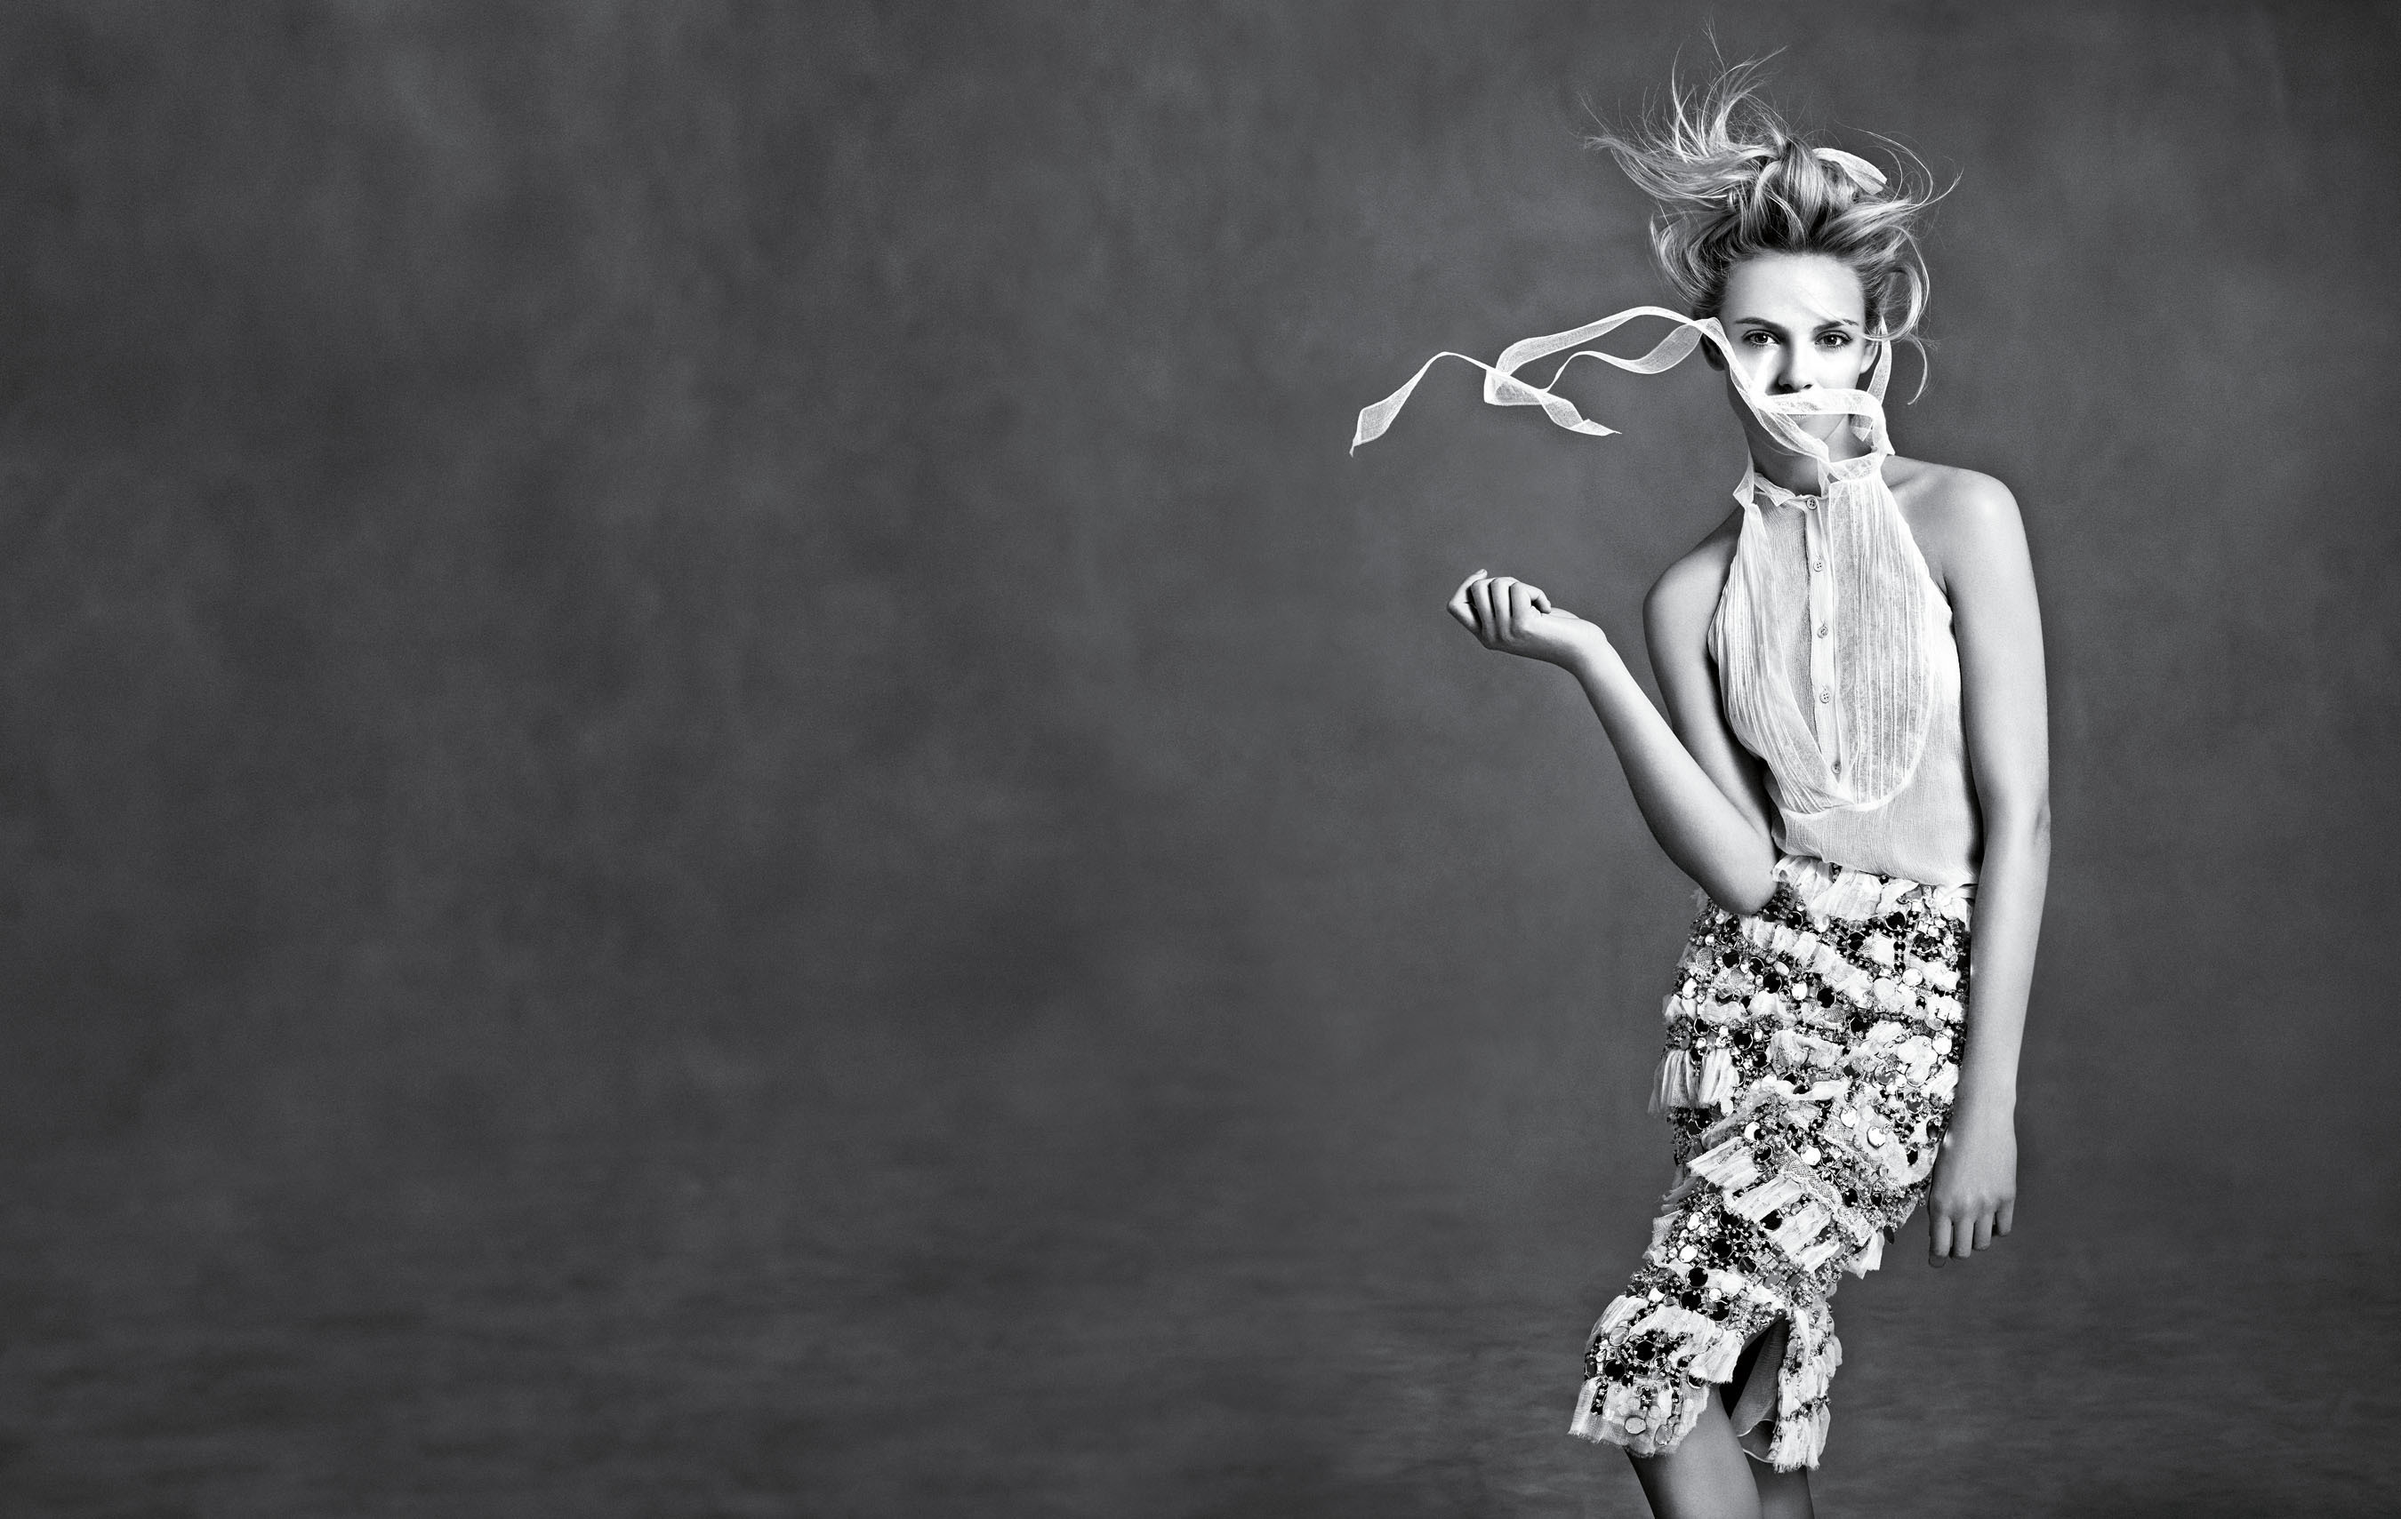
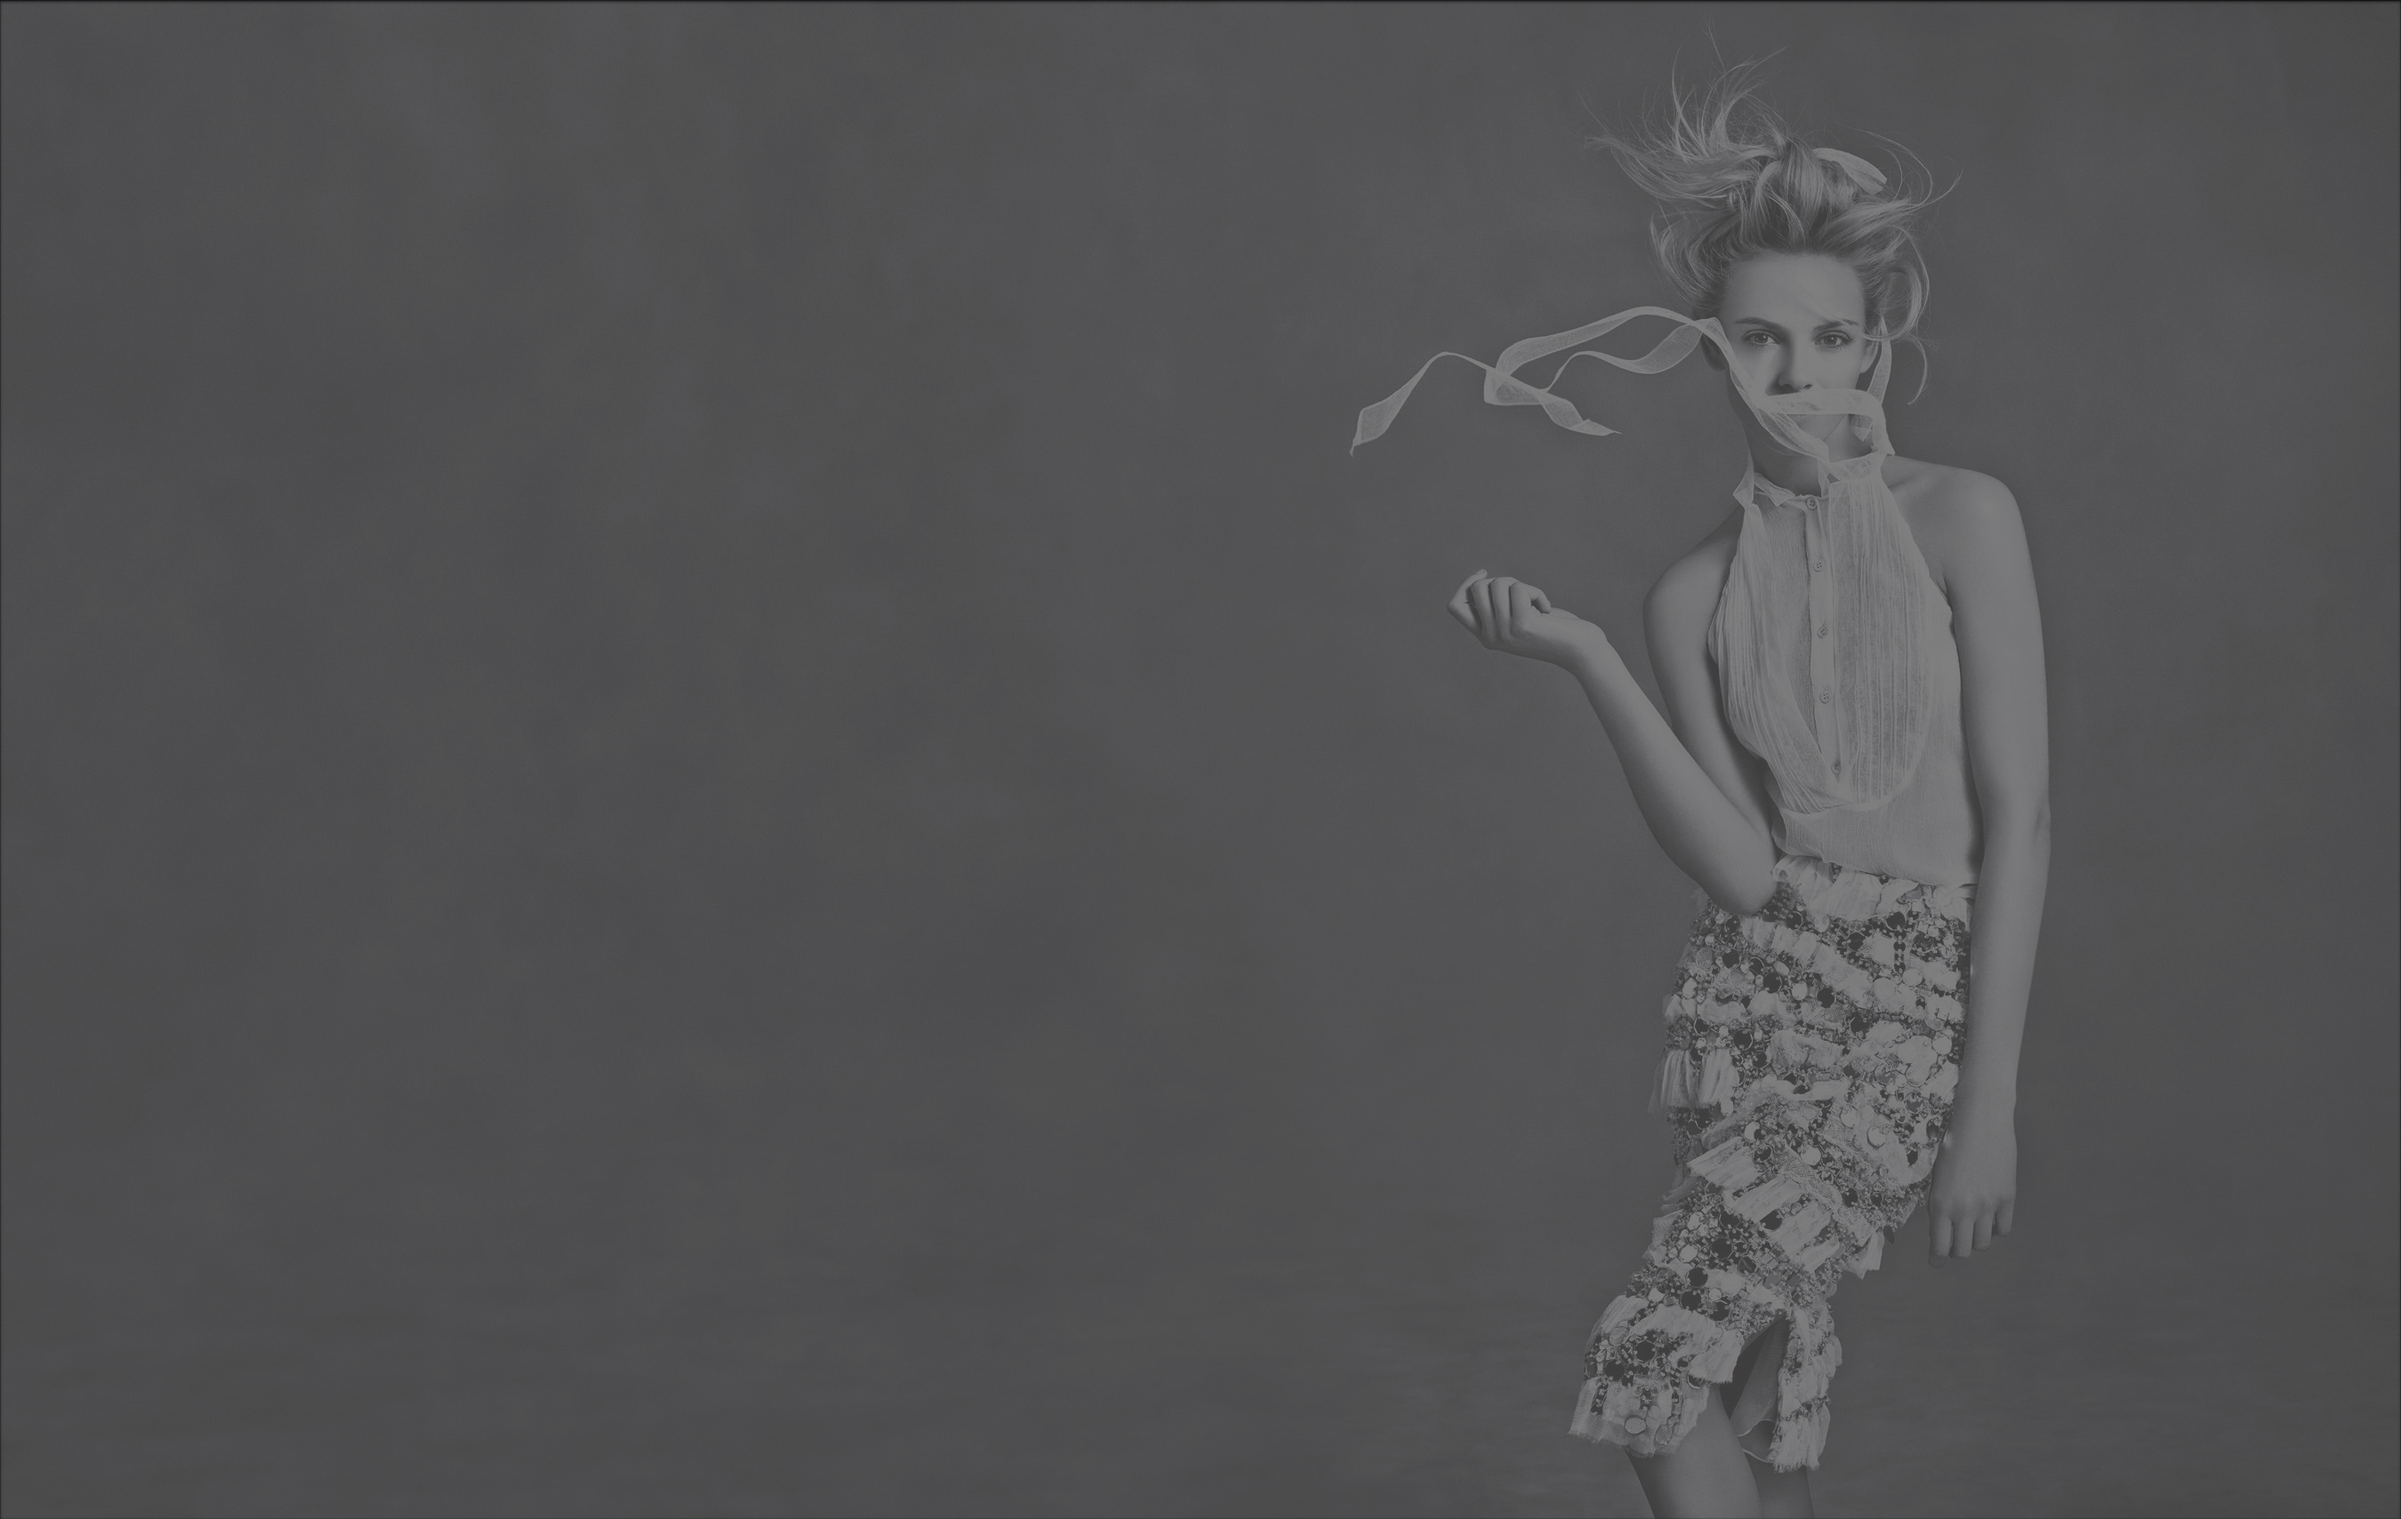
updates home image

diff --git a/public/views/index.html b/public/views/index.html
@@ -19,7 +19,7 @@
         <title>Mode For Me</title>
     </head>
     <body>
-        <div class="splash" data-parallax="scroll" data-image-src="../static/public/images/splash.png" naturalHeight="100">
+        <div class="splash" data-parallax="scroll" data-image-src="../static/public/images/home-image.jpg" naturalHeight="100">
             <nav>
                 <a href="./">
                     <img class="logo" src="../static/public/images/logo.png">
@@ -40,7 +40,7 @@
                     <p>Contact Us</p>
                 </a>
             </div>
-            <h1 class="splash-text">Be the first.<br/> Find unique fashion from emerging designers.</h1>
+            <h1 class="splash-text">Be the first. </br>Shop limited edition fashion from emerging designers.</h1>
             <!-- Begin MailChimp Signup Form -->
                 <div id="mc_embed_signup">
                     <form action="//herokuapp.us11.list-manage.com/subscribe/post?u=f4872b9c06d1656977bf8b938&amp;id=cc1fe4ea9c" method="post" id="mc-embedded-subscribe-form" name="mc-embedded-subscribe-form" class="validate" target="_blank" novalidate>
